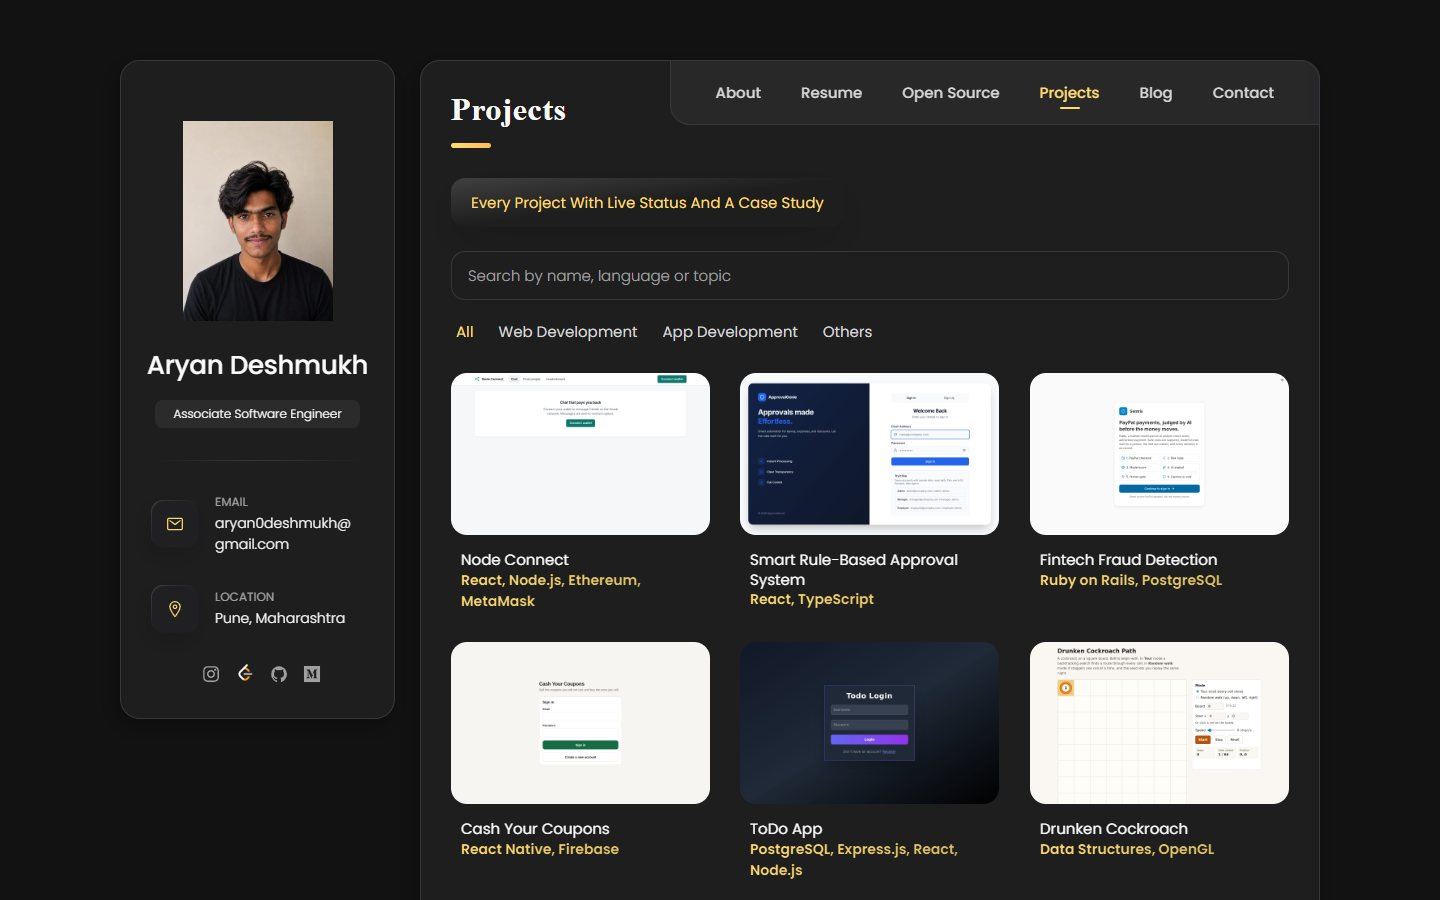
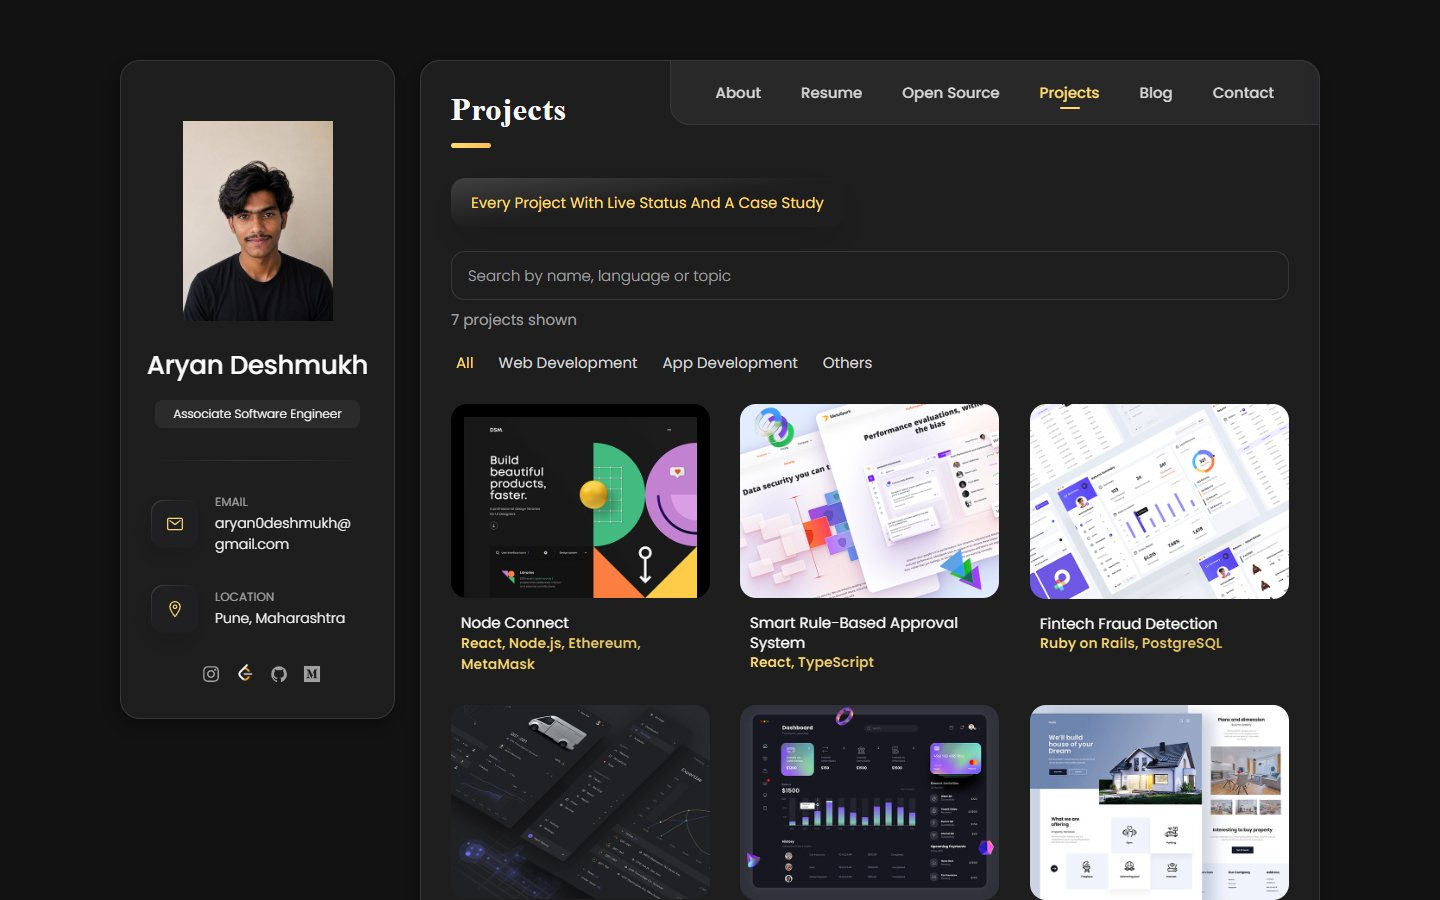
docs: README gallery and measurements after pagination (#12)
* docs: README gallery and measurements after pagination

* docs: Lighthouse rows after pagination

Changed region(s): [[0.3125, 0.3422, 0.9062, 1.0], [0.4375, 0.9644, 0.4688, 0.9956]]

diff --git a/README.md b/README.md
@@ -187,8 +187,8 @@ docs/images/               README screenshots only
 | CI | `ci.yml` runs the unit tests on every pull request and push to `main`; `static.yml` deploys on every push to `main` |
 | Security | Static files only: no forms, no server, no cookies, no secrets; external links use `rel="noopener noreferrer"` |
 | Content check | The text is checked against a list of private names before every push, and every claim is traced to a recorded source |
-| Lighthouse, live, mobile preset (2026-11-07) | Performance 83, Accessibility 96, Best Practices 100, SEO 100 |
-| Lighthouse, live, desktop preset (2026-11-07) | Performance 93, Accessibility 96, Best Practices 100, SEO 100 |
+| Lighthouse, live, mobile preset (2026-11-07, after pagination) | Performance 88 (83 earlier that day), Accessibility 96, Best Practices 100, SEO 100 |
+| Lighthouse, live, desktop preset (2026-11-07, after pagination) | Performance 96 (93 earlier that day), Accessibility 96, Best Practices 100, SEO 100 |
 
 On 2026-10-16 the largest-contentful-paint element was the profile photo: a 1.6 MB PNG shown at 80 px wide. Replacing it with a 400 px JPEG (18 KB) lifted live mobile performance from 65 to 81 and desktop from 59 to 98, measured before and after on the live URL the same day. The 2026-11-07 numbers are the next measurement, after the tabs started loading live data and screenshots.
 
